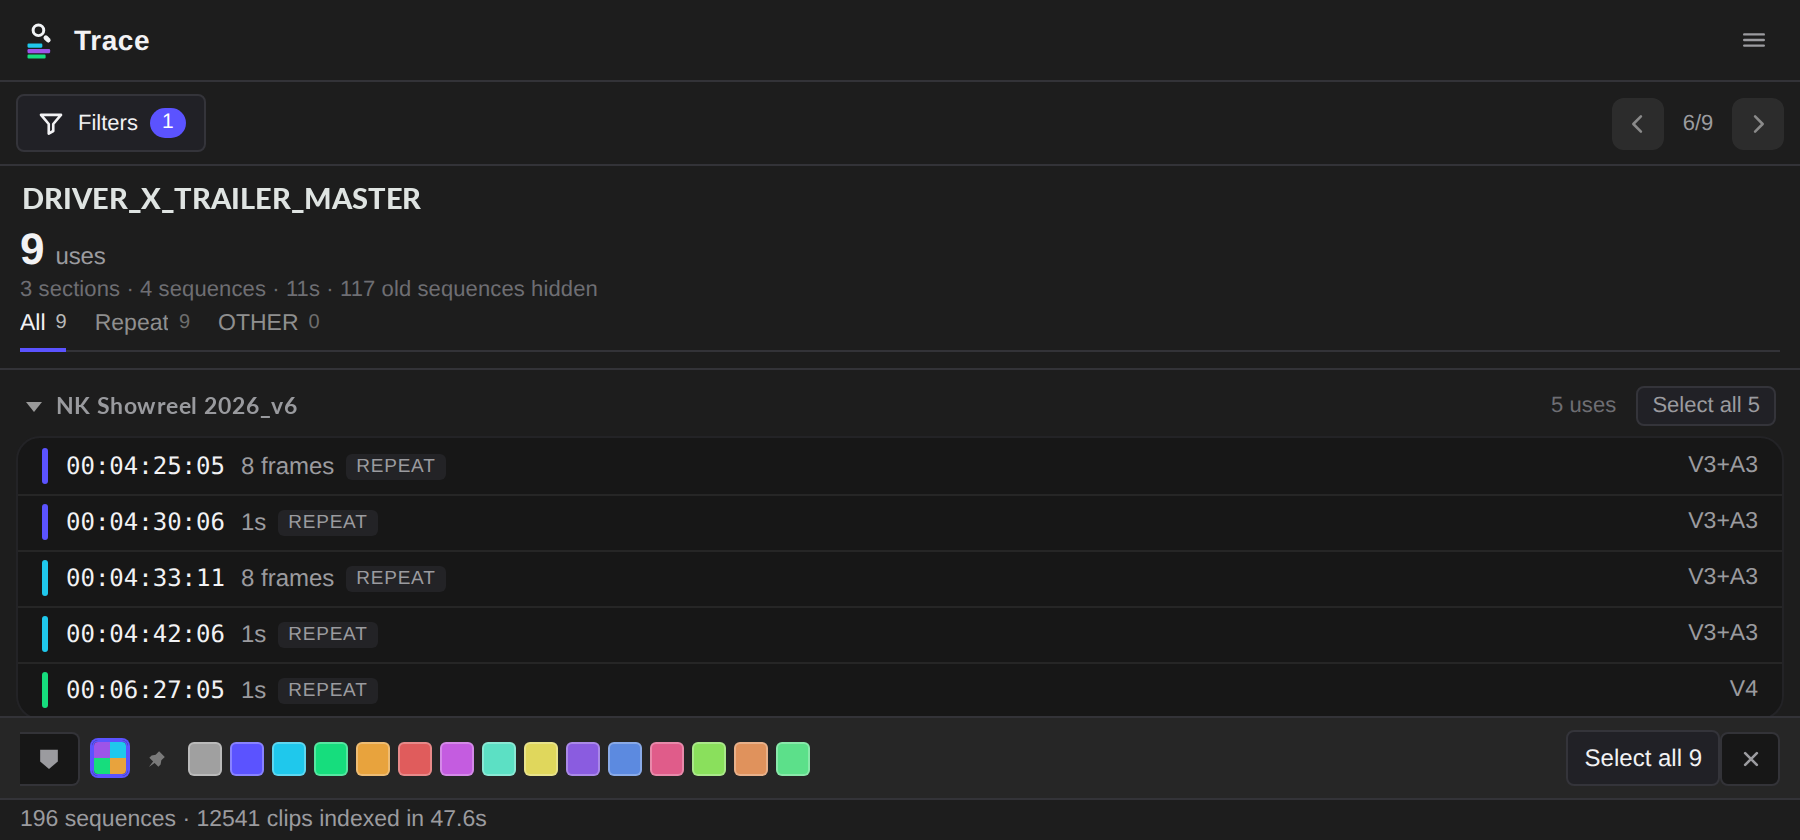
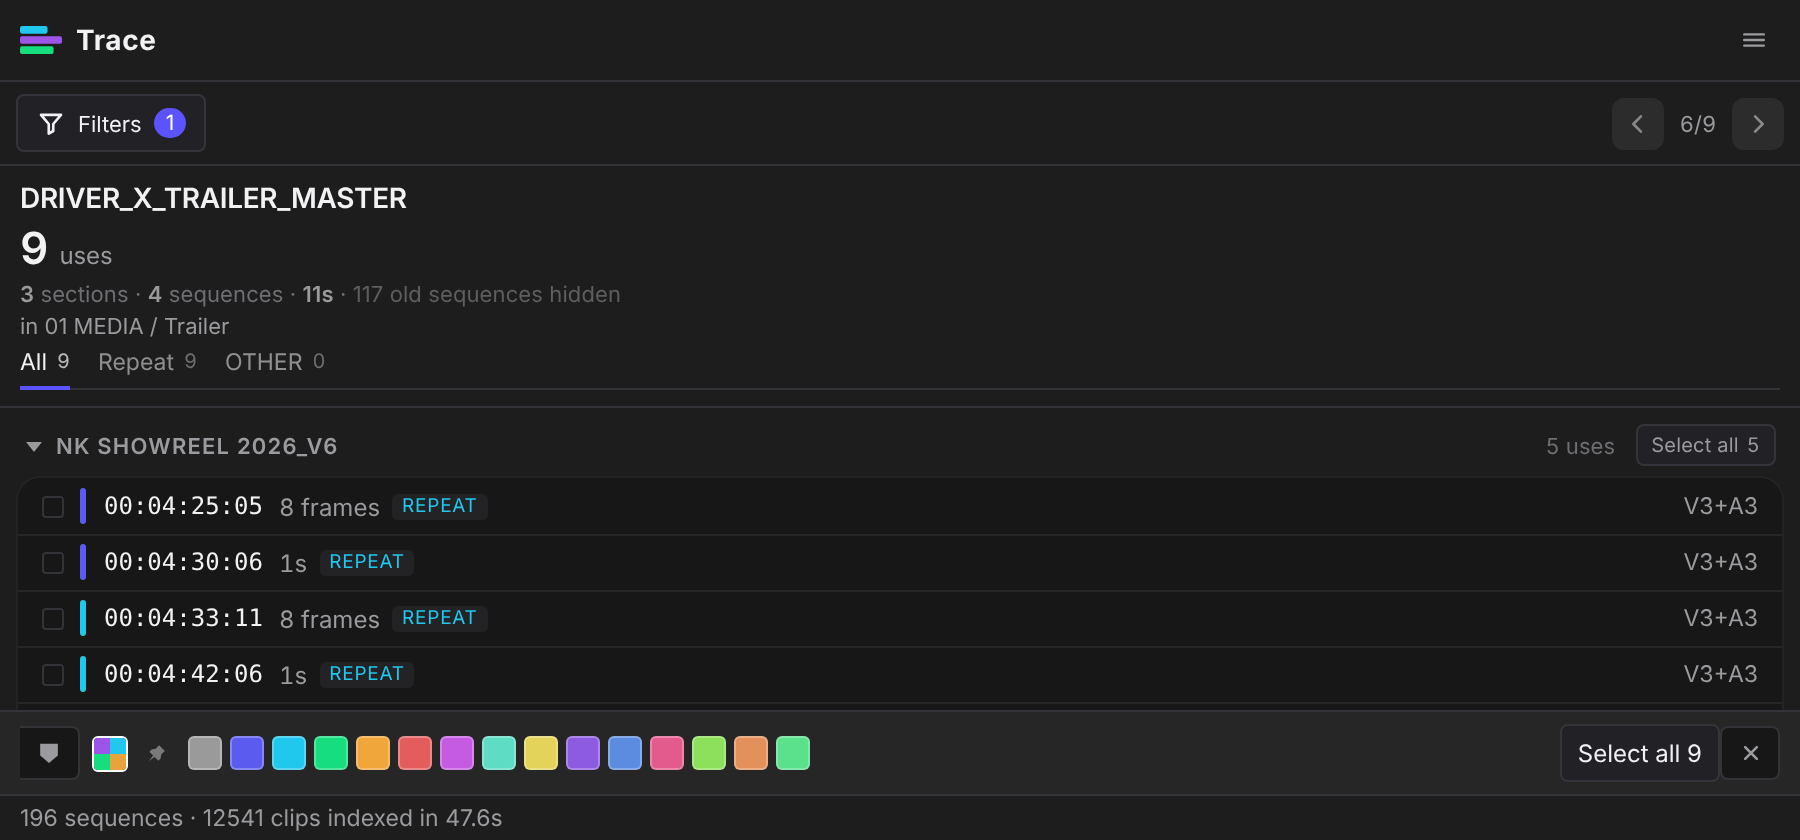
Help guide: update for Trace 1.4.1
New screenshots (three-line logo, row tick boxes, bin line, tabs),
About window with Check for updates and Help guide, All/Repeat/OTHER
tabs and Tour documented, removed the Find button that no longer
exists, 'plugin' not 'panel', new troubleshooting entry.

Claude-Session: https://claude.ai/code/session_01NxgWnt965p5rbFGUqQRgMa

diff --git a/docs/index.html b/docs/index.html
@@ -263,7 +263,7 @@
   <a href="#install">Install</a>
   <a href="#quick-start">Quick start</a>
 
-  <h4>The panel</h4>
+  <h4>The plugin</h4>
   <a href="#two-views">One clip at a time</a>
   <a href="#repeats">Repeats and sections</a>
   <a href="#find">Finding every use</a>
@@ -302,7 +302,7 @@
   every instance at once.</p>
 
   <div class="cards">
-    <a class="card" href="#install"><b>Install</b><span>Get the panel into Premiere. About a
+    <a class="card" href="#install"><b>Install</b><span>Get the plugin into Premiere. About a
       minute, and there is no licence key.</span></a>
     <a class="card" href="assets/Trace-Install-Guide.pdf"><b>Install guide (PDF)</b><span>Four
       pages, printable — covers Trace and Trace+, with every gesture on one page.</span></a>
@@ -357,7 +357,7 @@
     <tr><td class="no">Something that edits for you</td><td>It moves the playhead and makes selections. Only if you ask does it add markers or set in/out points. It never cuts, trims or ripples.</td></tr>
     <tr><td class="no">A subscription, or a trial</td><td>Free. No account, no key, no sign-in, no expiry, nothing to cancel.</td></tr>
   </table>
-  <p>It is also not a panel most people open every day. It earns its place on the days you inherit
+  <p>It is also not a plugin most people open every day. It earns its place on the days you inherit
   someone else's project, hunt a clip you know you used somewhere, or need to know what a
   forty-minute interview actually gave you.</p>
 
@@ -380,7 +380,7 @@
       <code>trace.ccx</code> and double-click it. Creative Cloud Desktop installs it for you —
       nothing to unzip. Nothing arrived? Check spam, then
       <a href="mailto:support@nkcourses.co.uk">email me</a> and I will send it directly.</li>
-    <li><strong>Quit Premiere Pro and open it again.</strong> Premiere only looks for new panels at
+    <li><strong>Quit Premiere Pro and open it again.</strong> Premiere only looks for new plugins at
       startup.</li>
     <li><strong>Window &gt; UXP Plugins &gt; Trace.</strong></li>
   </ol>
@@ -405,7 +405,7 @@
       hundred milliseconds on a normal job — then answers instantly from then on.</li>
     <li>Click any row to jump the playhead to that use.</li>
     <li>Press <strong>Select all</strong> &mdash; on a sequence&rsquo;s own header for that cut alone, or
-      in the bar at the foot of the panel for everything on screen &mdash; and every use becomes a real
+      in the bar at the foot of the plugin for everything on screen &mdash; and every use becomes a real
       Premiere selection at once.</li>
   </ol>
   <p>With nothing selected, Trace waits. That is the whole loop; everything below is detail.</p>
@@ -420,7 +420,12 @@
   used; the other five uses are repeats of footage already counted.</p>
 
   <p>And every use that shares its footage with another carries a <strong>REPEAT</strong> badge on
-  its row, so you can see which ones they are rather than only how many.</p>
+  its row, so you can see which ones they are rather than only how many. A use from a different part of the
+  source carries an <strong>OTHER</strong> badge.</p>
+
+  <p>The three tabs under the totals filter the list by that: <strong>All</strong> shows every use,
+  <strong>Repeat</strong> only the uses of footage you have already used elsewhere, and <strong>OTHER</strong>
+  only the uses of a different part of the file. Each tab shows how many rows it holds before you press it.</p>
 
   <div class="note">
     <p><b>It is not shown when it would say nothing.</b> A clip cut into nine different places reads
@@ -439,7 +444,7 @@
   <p><strong>Trace scans the clip you select, and nothing else.</strong> There is no view to
   switch, no mode, no setting. Click a clip, a subclip, an audio file or a sequence in the Project
   panel and Trace shows every place it is used. Click away and it waits.</p>
-  <p>That is the whole shape of it, and it is deliberate: a panel that only ever answers one question
+  <p>That is the whole shape of it, and it is deliberate: a plugin that only ever answers one question
   needs no explaining. If you want the same answer for <strong>many clips at once</strong> — what a
   whole sequence reuses, what media the whole project is not using — that is
   <a href="#trace-plus">Trace+</a>.</p>
@@ -490,7 +495,7 @@
   effect onto.</p>
 
   <p>There are two of them, and they have different scopes. Each sequence card&rsquo;s header carries its
-  own <strong>Select all 5</strong> for that cut alone; the bar pinned at the foot of the panel carries
+  own <strong>Select all 5</strong> for that cut alone; the bar pinned at the foot of the plugin carries
   <strong>Select all 9</strong> for everything on screen. Both say how many they will take, so you never
   have to guess which one you are pressing.</p>
 
@@ -519,9 +524,9 @@
   <!-- ⚠ AT THE TOP, not the bottom. The stepper moved up into its own row in
        0.44.x and this line was left behind — a reader following it looks at the
        wrong end of the panel for a control that is right in front of them. -->
-  <p>The arrows at the top right of the panel walk the playhead through every use on screen, in order,
+  <p>The arrows at the top right of the plugin walk the playhead through every use on screen, in order,
   jumping between sequences as needed. The counter between them tells you where you are —
-  <em>3 / 9</em>. The <strong>&times;</strong> at the right-hand end of the bar at the foot of the panel
+  <em>3 / 9</em>. The <strong>&times;</strong> at the right-hand end of the bar at the foot of the plugin
   drops the selection and the picks.</p>
 
   <h2 id="gestures">Every gesture</h2>
@@ -533,7 +538,7 @@
       <strong>collapses every other</strong> — the tidy-up, for when the list has got long</td></tr>
     <tr><td>Select all in a sequence</td><td>Every sequence header carries its own <strong>Select all</strong>
       with the count on it, so you can light one cut's uses without touching the rest. The bar at the
-      foot of the panel does the same for everything on screen</td></tr>
+      foot of the plugin does the same for everything on screen</td></tr>
     <tr><td>Click a use, with nothing ticked</td><td>Jump the playhead there and select that clip</td></tr>
     <tr><td>Click a use, with a selection running</td><td><strong>Adds or removes it</strong> — so
       &ldquo;select all, drop the two I don&rsquo;t want&rdquo; needs no modifier. The playhead still
@@ -541,8 +546,7 @@
     <tr><td><kbd>Shift</kbd>-click, or double-click</td><td>Open in the Source Monitor, with that use set as in/out</td></tr>
     <tr><td><kbd>Cmd</kbd> / <kbd>Ctrl</kbd>-click, or the tick box</td><td>Add or remove from the selection</td></tr>
     <tr><td><kbd>Alt</kbd>-click</td><td><strong>Find in Project</strong> — copies the clip's name for the
-      Project panel's Find box (<kbd>Cmd</kbd>/<kbd>Ctrl</kbd>-F). The <strong>Find</strong> button beside the
-      bin path does the same thing</td></tr>
+      Project panel's Find box (<kbd>Cmd</kbd>/<kbd>Ctrl</kbd>-F)</td></tr>
     <tr><td>The arrows</td><td>Step through every use on screen</td></tr>
   </table>
   <p><kbd>Shift</kbd> and double-click do the same thing deliberately, so the Source Monitor is
@@ -629,7 +633,7 @@
 
   <h2 id="markers">Adding markers</h2>
   <p>The <strong>marker button</strong> — the flag shape at the far left of the bar at the foot of the
-  panel — drops a marker over every use on screen. Unlike a selection, a marker survives you clicking
+  plugin — drops a marker over every use on screen. Unlike a selection, a marker survives you clicking
   somewhere else: it is the persistent version of &ldquo;highlight every use&rdquo;.</p>
 
   <div class="note">
@@ -656,7 +660,7 @@
 
   <figure>
     <img src="assets/ui-colours-wide.png" alt="Trace docked wide under the timeline, with the fifteen label colours laid out along the action bar.">
-    <figcaption><strong>The colours</strong> — along the bar when the panel is wide enough for them.</figcaption>
+    <figcaption><strong>The colours</strong> — along the bar when the plugin is wide enough for them.</figcaption>
   </figure>
 
   <p>Hover the chip and the colours appear; move away and they go after about half a second. Click the
@@ -671,7 +675,7 @@
 
   <div class="note warn">
     <p style="margin:0"><b>It colours the master clip, not the clips in your timeline.</b> Premiere has
-    no way for a panel to set a track item&rsquo;s label. Instances take the master&rsquo;s colour by
+    no way for a plugin to set a track item&rsquo;s label. Instances take the master&rsquo;s colour by
     Premiere&rsquo;s own rule &mdash; which is what people mean when they ask for this &mdash; but an
     instance somebody has already recoloured by hand keeps its override.</p>
   </div>
@@ -701,7 +705,7 @@
   <a href="#trace-plus">Trace+</a>.</p>
 
   <h2 id="report">Reporting a bug, or asking for something</h2>
-  <p><strong>☰ &gt; Send feedback</strong> sends a message straight to me from inside the panel,
+  <p><strong>☰ &gt; Send feedback</strong> sends a message straight to me from inside the plugin,
   along with your Trace, Premiere and system versions — never a file path, a project name, or
   anything from your timeline. Nothing is sent unless you type something and press Send.</p>
   <p><strong>☰ &gt; Scan report</strong> is the diagnostic behind it: what Trace found, how long it
@@ -710,10 +714,11 @@
 
 
   <h2 id="updates">Updates and About</h2>
-  <p>Trace checks once a day whether a newer version exists and shows a small notice in the panel if
-  so. <strong>About Trace &gt; Check for updates</strong> asks immediately.</p>
+  <p>Trace checks once a day whether a newer version exists and shows a small notice in the plugin if
+  so. <strong>☰ &gt; Check for updates</strong> asks immediately, and the About window checks by itself every time it opens.</p>
   <p><strong>☰ &gt; About Trace</strong> shows the version you are running — the first thing to quote
-  if you report a problem — along with a link back to this site.</p>
+  if you report a problem — along with a link back to this site and a <strong>Help guide</strong> button that opens this page.</p>
+  <p><strong>☰ &gt; Tour</strong> replays the short tour Trace shows the first time you open it.</p>
 
   <figure>
     <img src="assets/about-dialog.png" alt="The About Trace window, showing the mark, the version number and the tagline.">
@@ -735,7 +740,7 @@
       no way to set a Project panel selection, and none of the 78 undoable actions comes close. Premiere's own
       <em>Reveal in Project</em> command cannot be triggered either.
       <br><br>So Trace does the two halves it can: it <strong>shows you the bin</strong> under the clip name, and
-      <strong>Find in Project</strong> — the button beside it, or <kbd>Alt</kbd>-click on any row —
+      <strong>Find in Project</strong> — <kbd>Alt</kbd>-click on any row —
       copies the exact name for the Project panel's Find box. It is
       called Find rather than Reveal because that is what it does.</td></tr>
     <tr><td class="no">Colour or tint clips in the timeline</td><td>Colour labels are project-item only. Selection and markers are the two visual channels a plugin gets.</td></tr>
@@ -800,7 +805,7 @@
   <h3>What happens with audio?</h3>
   <p>Audio is indexed with video, and a synced clip counts as <strong>one use, not two</strong>.
   Video on V1 with its audio on A1 is two track items pointing at one source, so a naive count
-  doubles — and the count is the whole point of the panel. Trace merges them where they overlap by
+  doubles — and the count is the whole point of the plugin. Trace merges them where they overlap by
   more than half, so a J-cut or an L-cut stays one use and reports the full on-screen range. Two
   genuinely separate edits of the same clip, back to back, do not overlap enough to merge and stay
   two.</p>
@@ -815,12 +820,12 @@
 
   <h3>Is it really free?</h3>
   <p>Yes — no account, no key, no trial, no expiry. <a href="#trace-plus">Trace+</a> is the paid
-  panel, and it is a different question rather than a bigger helping of this one.</p>
+  plugin, and it is a different question rather than a bigger helping of this one.</p>
 
   <h2 id="troubleshooting">Troubleshooting</h2>
 
   <h3>Trace isn't in the Window menu</h3>
-  <p>Restart Premiere after installing — it only looks for new panels at startup. Then check
+  <p>Restart Premiere after installing — it only looks for new plugins at startup. Then check
   <strong>Window &gt; UXP Plugins</strong>, not Window &gt; Extensions. If it is still missing,
   confirm you are on 25.6 or later under <strong>Premiere Pro &gt; About Premiere Pro</strong>.</p>
 
@@ -840,7 +845,7 @@
   <a href="https://aescripts.com/learn/zxp-installer/">ZXP/UXP installer</a> works too. Still
   stuck? <a href="mailto:support@nkcourses.co.uk">Email me</a> and I will sort it with you.</p>
 
-  <h3>It says 0 uses and I know I used that clip</h3>
+  <h3>It says &ldquo;Not used&rdquo; and I know I used that clip</h3>
   <p>Three things do this, in order of likelihood:</p>
   <ul>
     <li><strong>The uses are in archived sequences.</strong> Open <strong>Filters</strong> and untick
@@ -857,11 +862,16 @@
   <p>Trace re-scans on its own as you edit, but <strong>☰ &gt; Re-scan project</strong>
   forces it. If a forced re-scan changes the answer, that is worth telling me about.</p>
 
+  <h3>Trace stopped picking up clips</h3>
+  <p>Since 1.4.1 Trace notices when Premiere stops answering and frees itself within about a minute,
+  with a message in the status line. If it still shows nothing, use <strong>☰ &gt; Re-scan project</strong>,
+  or restart Premiere. If you are on an older version, update first: <strong>☰ &gt; Check for updates</strong>.</p>
+
   <h3>Clicking a row moved the playhead but selected nothing</h3>
   <p>Almost always means the clip has been trimmed or moved since the last scan. Re-scan and try
   again.</p>
 
-  <h3>The panel is squashed or the buttons overlap</h3>
+  <h3>The plugin is squashed or the buttons overlap</h3>
   <!-- ⚠ NO ADAPTIVITY CLAIM. "Trace drops columns as it narrows" was the same
        promise the deleted Docking section made, and it is not what the panel
        does. Keep the advice, drop the claim. -->
@@ -931,14 +941,14 @@
     <tr><th>Deletes any media, ever</th><td>Never</td><td>Never</td></tr>
   </table>
   <p><strong>Everything Trace does, Trace+ does too.</strong> Nothing you learn here is wasted and
-  no habit disappears — the paid panel is the same engine asked a bigger question.</p>
+  no habit disappears — the paid plugin is the same engine asked a bigger question.</p>
 
   <div class="note">
     <p><b>If you have seen the coloured coverage bar in Trace, it is not there any more.</b> Early
     builds drew it under the totals: the whole source clip, with the parts you had used filled in,
     reading <em>68% of the source used · longest untouched 4m 12s</em>. It moved to Trace+ on
     12 August, before Trace was released.</p>
-    <p>It is the clearest example of where the line between the two panels sits. Trace answers
+    <p>It is the clearest example of where the line between the two plugins sits. Trace answers
     <em>where is this clip?</em> — a lookup. The bar answers <em>how much of this clip have I ever
     touched?</em> — an analysis of the same clip, and analysis is what Trace+ is for.</p>
   </div>
@@ -949,7 +959,7 @@
     <a class="go" href="https://www.nkcourses.co.uk/traceplus/">Get Trace+</a>
     <span class="note">Trace stays free, complete and finished. It is not a trial. Trace+ is a
       superset — it answers everything Trace answers and more — so installing it does not disturb
-      Trace, and you can keep the free panel or remove it, whichever suits your workspace.</span>
+      Trace, and you can keep the free plugin or remove it, whichever suits your workspace.</span>
   </div>
 
   <h2 id="versionup"><span class="vu-lockup"><img src="assets/versionup-mark-black.svg" alt=""><span>VersionUp</span></span>Versioning your cuts by hand?</h2>
@@ -968,10 +978,10 @@
   </div>
 
   <h2 id="privacy">Privacy</h2>
-  <p><strong>Nothing about your project leaves your machine.</strong> Neither panel uploads, logs or
+  <p><strong>Nothing about your project leaves your machine.</strong> Neither plugin uploads, logs or
   phones home about your media, your sequences, your file paths or your project name. There is no
   analytics, no account and no telemetry.</p>
-  <p>Both panels make exactly one network request, and only when you ask for it or when the
+  <p>Both plugins make exactly one network request, and only when you ask for it or when the
   once-a-day update check runs: they fetch a small file from
   <a href="https://nkcourses.github.io/trace_updates/">nkcourses.github.io</a> that says whether a
   newer version exists. Nothing is sent with it.</p>
@@ -979,10 +989,10 @@
   came from. It never opens a media file.</p>
   <p><strong>Trace+</strong> reads the same, plus the <strong>size</strong> of the media files your
   project points at, which is where the archive-weight figure comes from. That needs filesystem
-  permission, and it is a bigger ask than the free panel makes, so it is worth saying plainly what it
+  permission, and it is a bigger ask than the free plugin makes, so it is worth saying plainly what it
   does <em>not</em> do: <strong>it never reads a file's contents.</strong> Only how many bytes long
   it is.</p>
-  <p>The <strong>Scan report</strong> in the panel menu is the one place your file paths appear, and
+  <p>The <strong>Scan report</strong> in the plugin menu is the one place your file paths appear, and
   it goes to your clipboard — nowhere else. Read it before you paste it into an email.</p>
 
   <h2 id="support">Support</h2>
